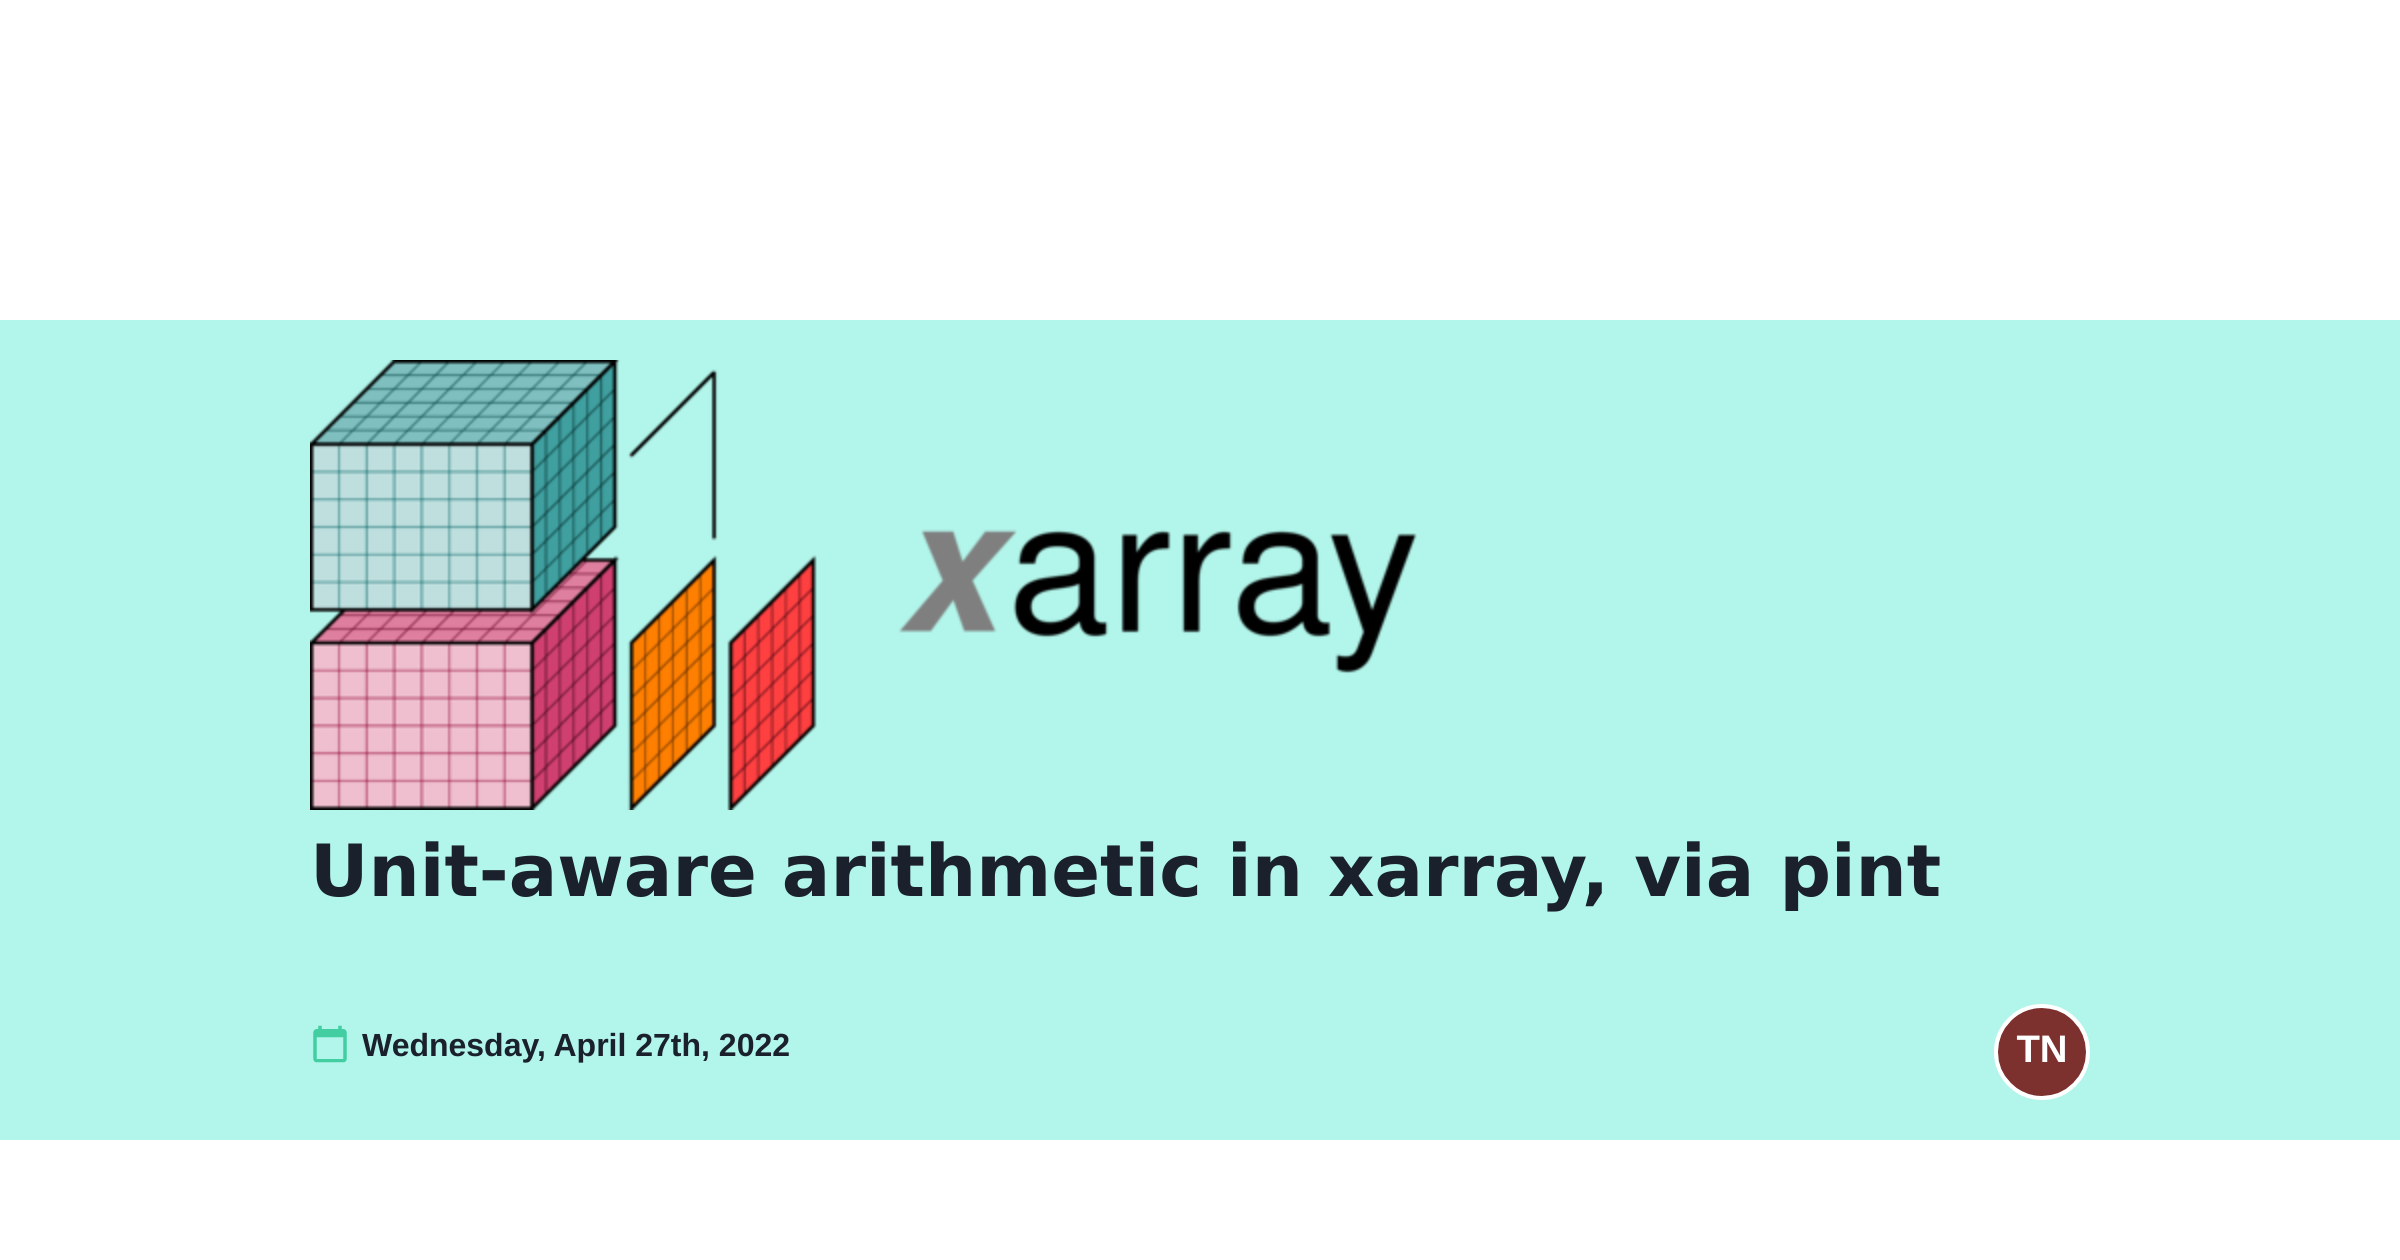
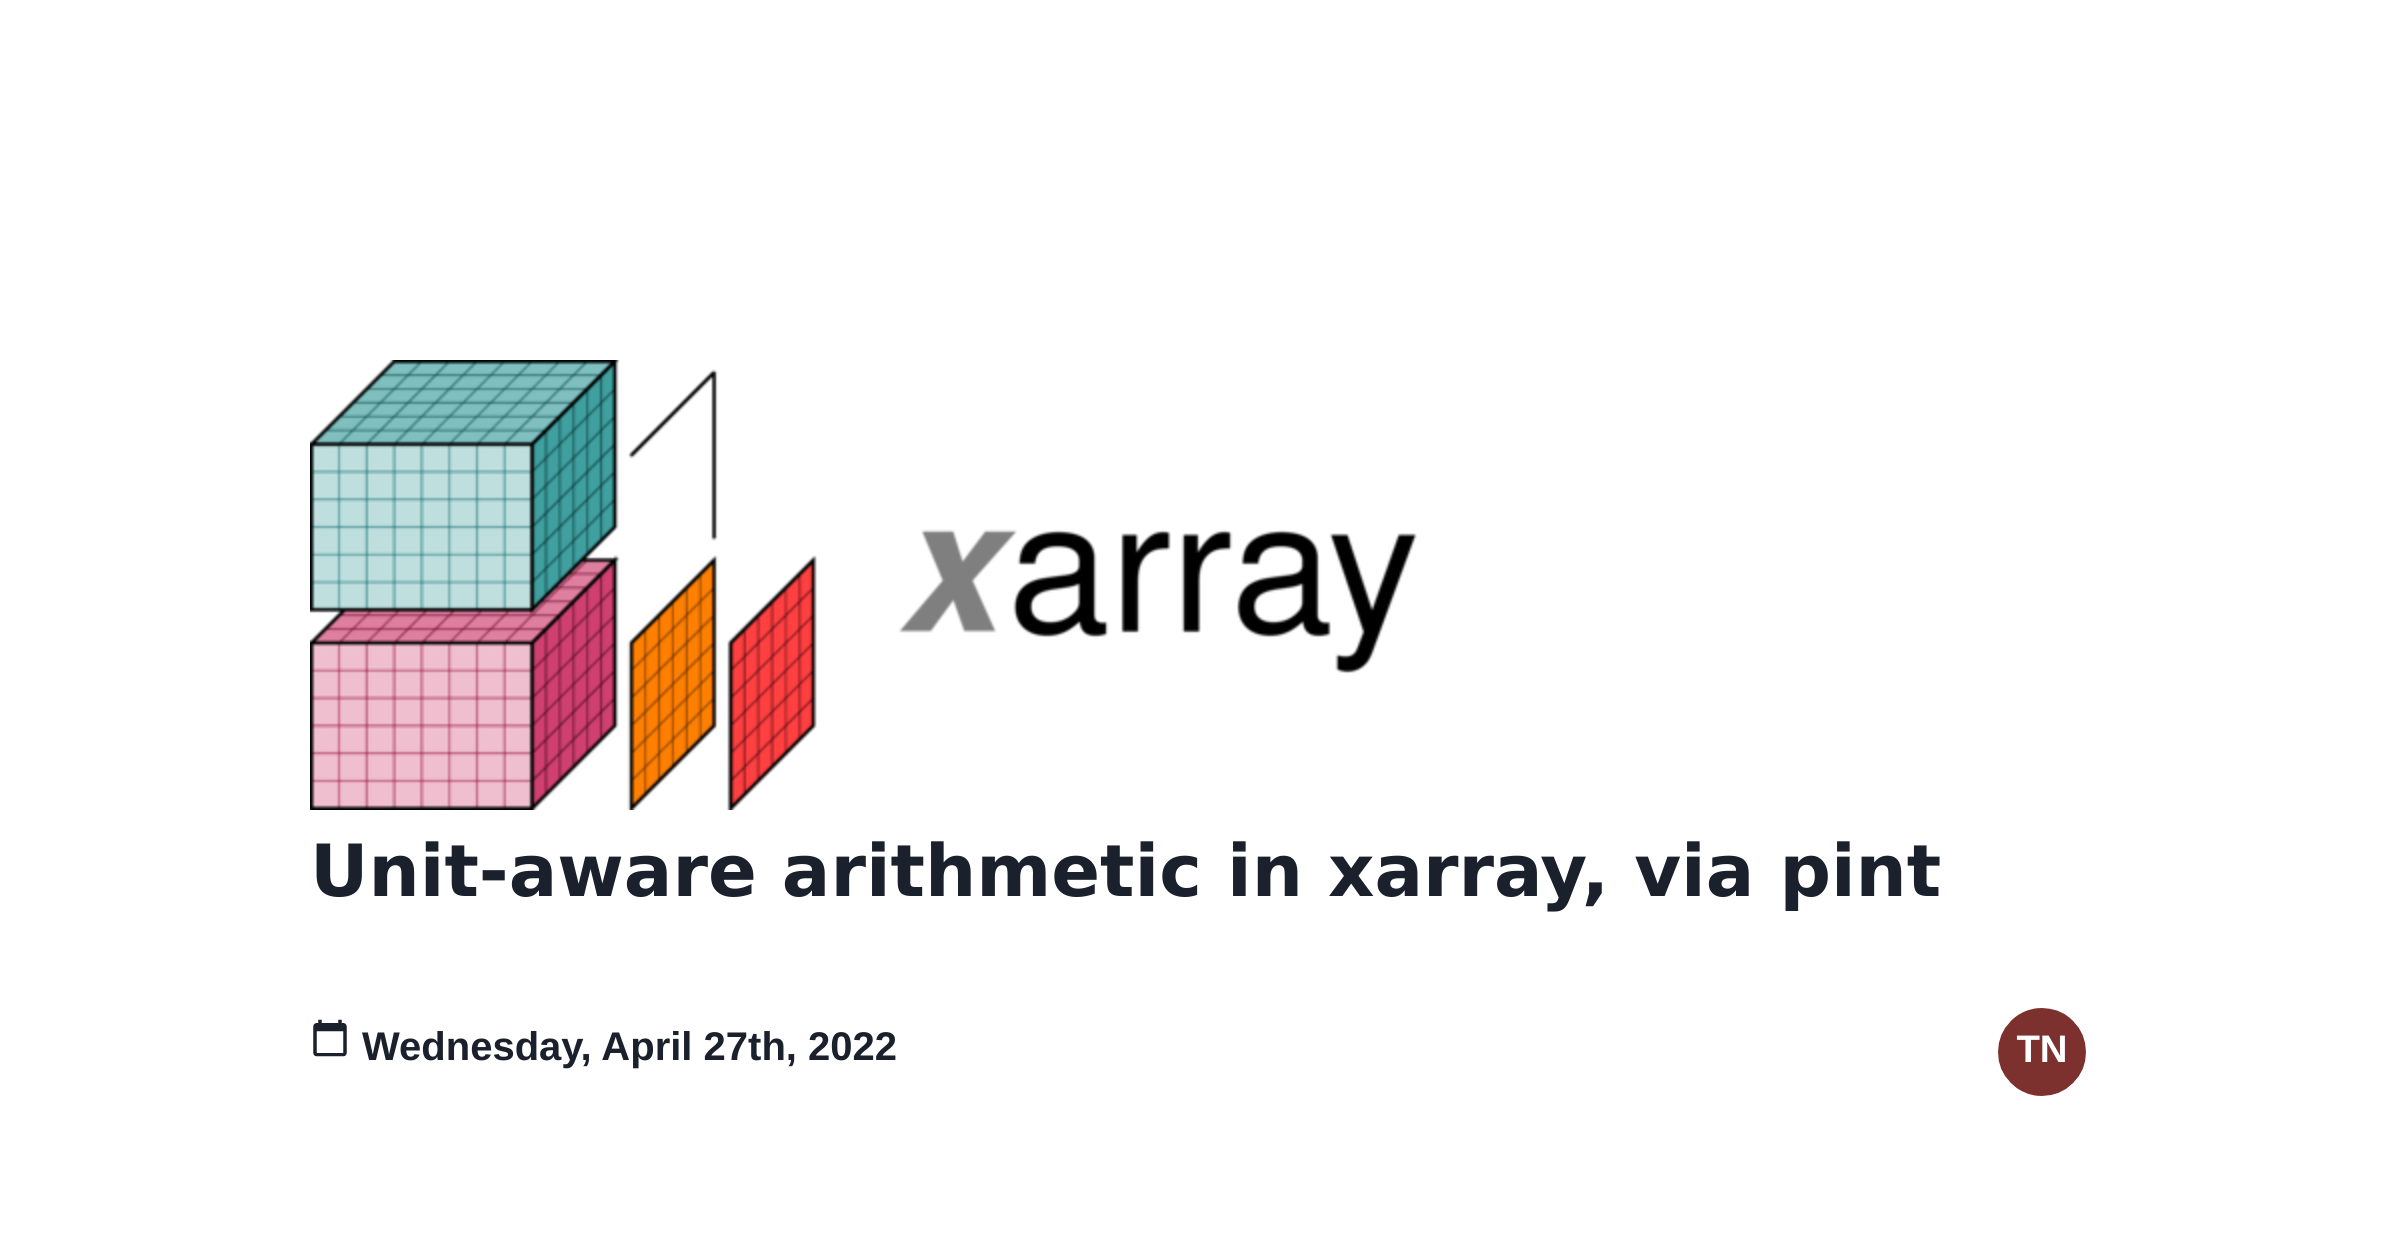
update cards

diff --git a/src/pages/cards/[id].js b/src/pages/cards/[id].js
@@ -22,7 +22,7 @@ const Card = ({ frontmatter, id }) => {
   const iconColor = "brand.200"
 
   return (
-    <Center mt={40} id={id} bg={"teal.100"}>
+    <Center mt={40} id="post">
       <Flex
         borderRadius="20px"
         bg={boxBackground}
@@ -39,9 +39,9 @@ const Card = ({ frontmatter, id }) => {
             ></Image>
           </Flex>
           <Box>
-            <Text as={Heading} fontWeight="600">
+            <Heading as={"h1"} size="xl">
               {frontmatter.title}
-            </Text>
+            </Heading>
           </Box>
         </Box>
 
@@ -64,7 +64,7 @@ const Card = ({ frontmatter, id }) => {
               me="6px"
               color="white.500"
             />
-            <Text fontWeight={"600"}>
+            <Text fontWeight={"600"} fontSize={"xl"}>
               {format(new Date(frontmatter.date), "PPPP")}
             </Text>
           </Flex>

diff --git a/src/pages/index.js b/src/pages/index.js
@@ -11,7 +11,12 @@ import { Layout } from "components/Layout"
 
 export default function IndexPage() {
   return (
-    <Layout title={"Xarray: N-D labeled arrays and datasets in Python"}>
+    <Layout
+      title={"Xarray: N-D labeled arrays and datasets in Python"}
+      card={
+        "https://raw.githubusercontent.com/xarray-contrib/xarray.dev/main/public/dataset-diagram-logo.png"
+      }
+    >
       <HeroBannerSection />
       <FeaturesSection />
       <ReplSection />

diff --git a/src/pages/blog/index.js b/src/pages/blog/index.js
@@ -23,7 +23,13 @@ import { Layout } from "components/Layout"
 
 export default function Blog({ allPostsData }) {
   return (
-    <Layout title={"Blog | Xarray"} url={"https://xarray.dev/blog"}>
+    <Layout
+      title={"Blog | Xarray"}
+      url={"https://xarray.dev/blog"}
+      card={
+        "https://raw.githubusercontent.com/xarray-contrib/xarray.dev/main/public/dataset-diagram-logo.png"
+      }
+    >
       <Box
         py={20}
         spacing={4}

diff --git a/src/pages/dashboard.js b/src/pages/dashboard.js
@@ -11,6 +11,9 @@ const DashboardPage = () => {
       title={"Xarray project statistics"}
       url={"https://xarray.dev/dashboard"}
       description={"Xarray project statistics"}
+      card={
+        "https://raw.githubusercontent.com/xarray-contrib/xarray.dev/main/public/dataset-diagram-logo.png"
+      }
     >
       <Statistics />
       <TimelinePlotContainer />
